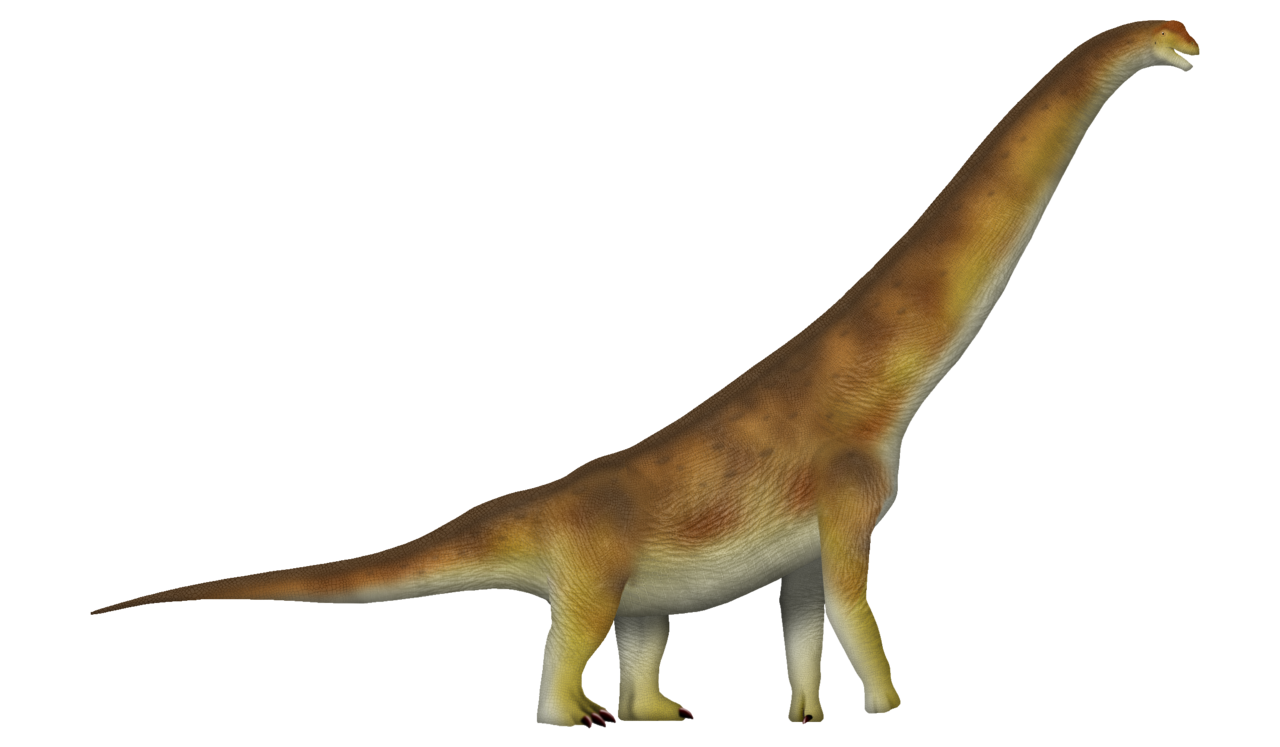
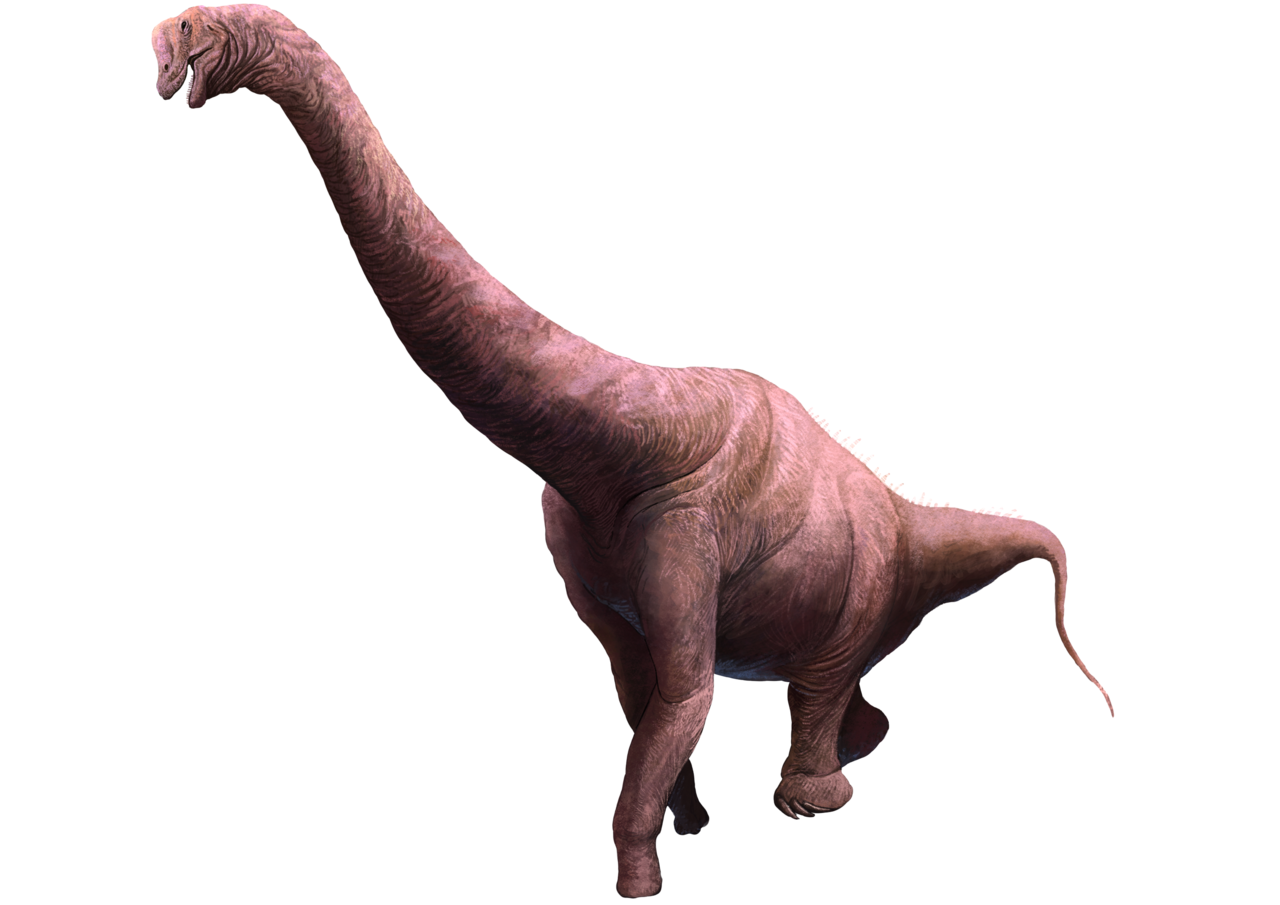
Improve Brachiosaurus artwork + default SITE_URL to live domain
- Replace the Brachiosaurus image: the previous artwork had an unnaturally
  thick neck/body. New image (DBCLS, CC BY 4.0) shows the elegant upright
  neck Brachiosaurus is known for, with a transparent background coherent
  with the rest of the set. Attribution updated accordingly; the DB test now
  checks for "Wikimedia Commons" rather than a single artist.
- Default NEXT_PUBLIC_SITE_URL fallback -> https://dinoria.vercel.app so
  sitemap/robots/OG are correct on the live deployment (override to
  dinoria.com once that domain is connected).

14 tests pass; production build succeeds.

Changed region(s): [[0.0625, 0.0, 0.9375, 1.0], [0.8438, 0.739, 0.875, 0.7697]]

diff --git a/src/lib/site.ts b/src/lib/site.ts
@@ -1,5 +1,6 @@
 /** Canonical site URL for SEO (one canonical URL, per PRD). Override with
- * NEXT_PUBLIC_SITE_URL on the deployment; defaults to the production domain. */
+ * NEXT_PUBLIC_SITE_URL on the deployment. Defaults to the current live URL;
+ * switch to https://dinoria.com once that domain is connected. */
 export const SITE_URL = (
-  process.env.NEXT_PUBLIC_SITE_URL ?? "https://dinoria.com"
+  process.env.NEXT_PUBLIC_SITE_URL ?? "https://dinoria.vercel.app"
 ).replace(/\/$/, "");

diff --git a/src/lib/quiz.test.ts b/src/lib/quiz.test.ts
@@ -20,7 +20,7 @@ describe("dinosaur database", () => {
     expect(ids.size).toBe(24);
     for (const d of dinosaurs) {
       expect(d.image).toMatch(/^\/dinos\/.+\.png$/);
-      expect(d.imageAttribution).toContain("TotalDino");
+      expect(d.imageAttribution).toContain("Wikimedia Commons");
       expect(d.interestingFacts.length).toBeGreaterThanOrEqual(3);
       expect(d.description.length).toBeGreaterThan(80);
       expect([1, 2]).toContain(d.difficulty); // M1 ships tiers 1–2
